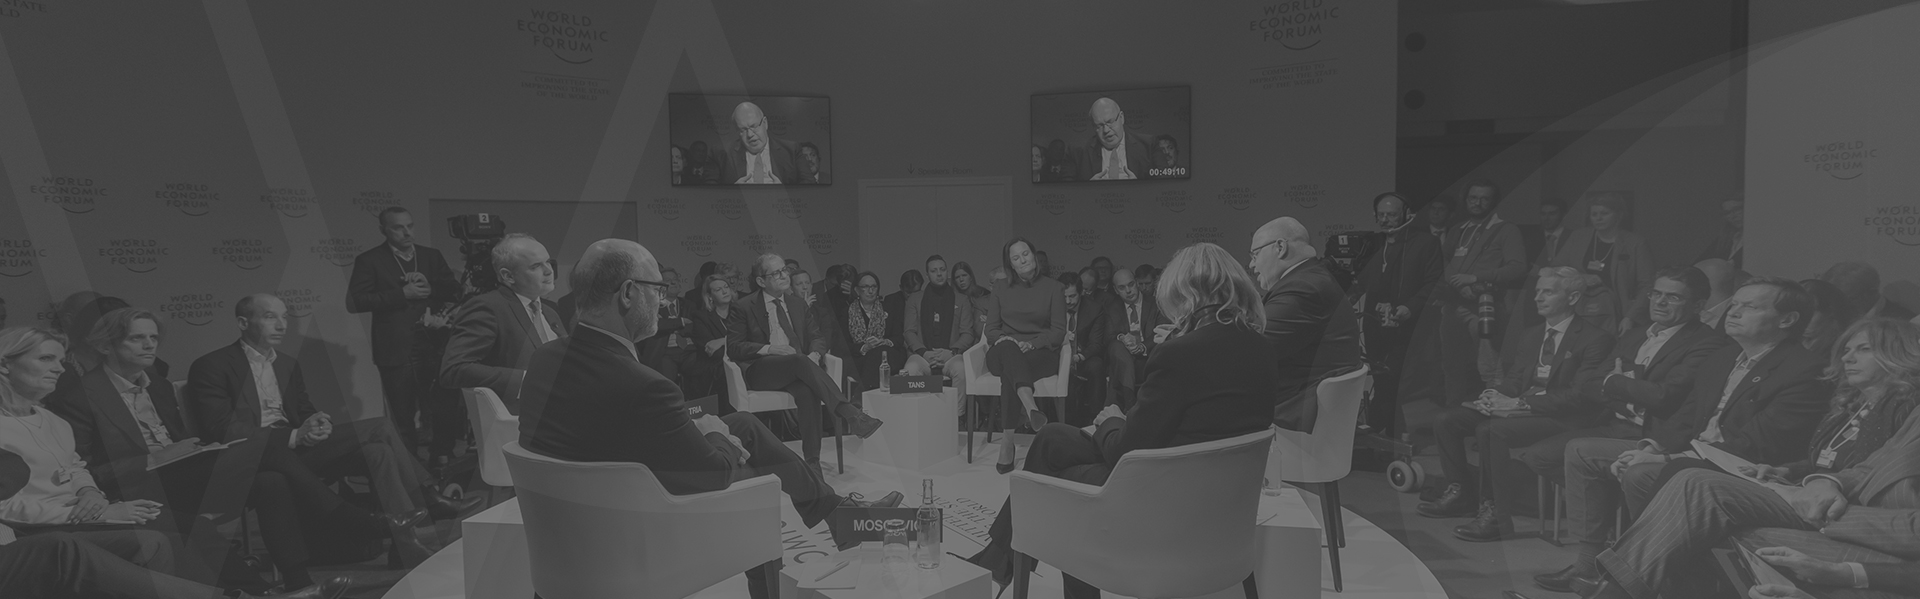
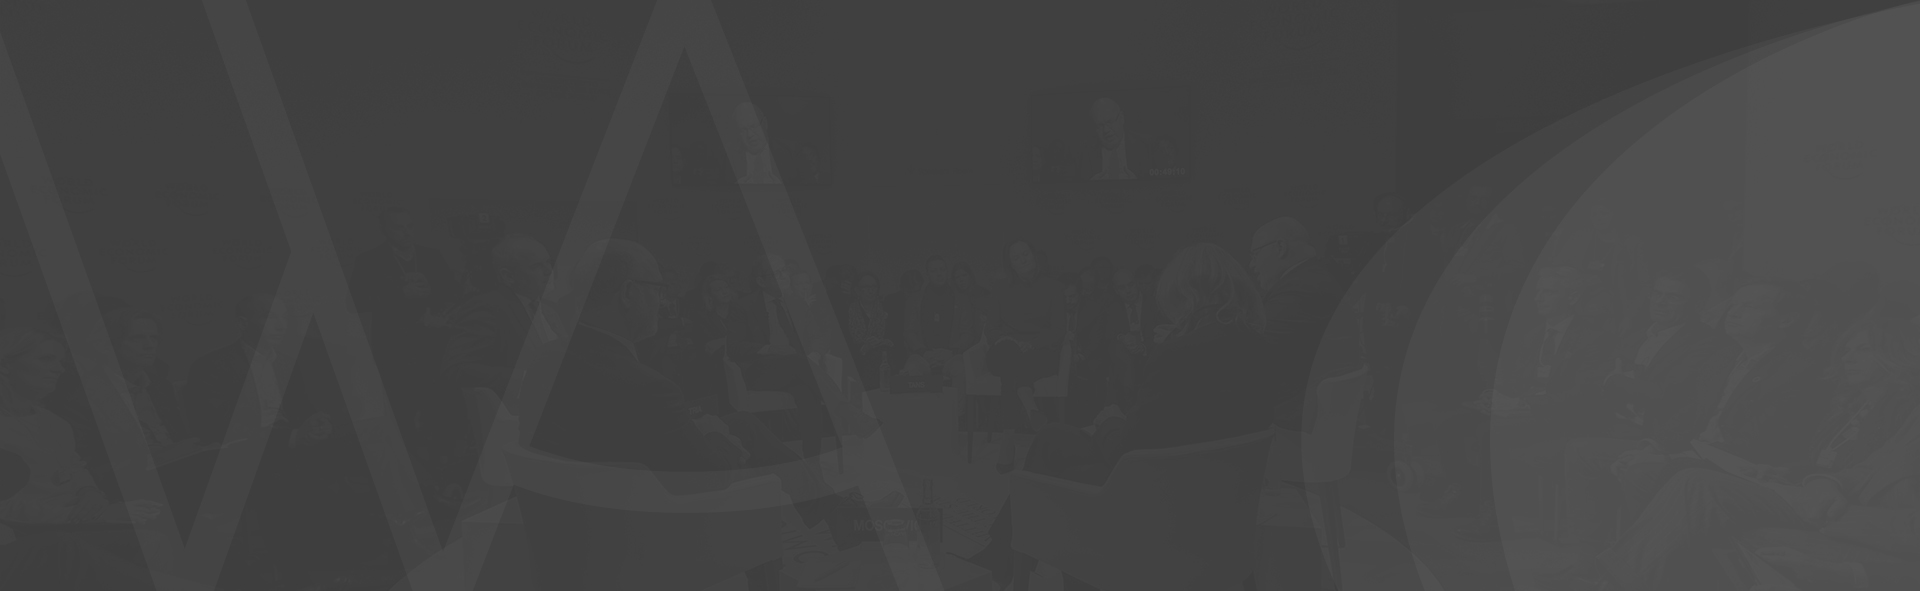
responsiveness design day one

diff --git a/src/components/coupons-and-deals/CouponsAndDeals.js b/src/components/coupons-and-deals/CouponsAndDeals.js
@@ -37,7 +37,7 @@ const CouponsAndDeals = ({ showDis, butonLabel = "true" }) => {
     return (
         <>
             <section>
-                <div className='wpa-wrapper-sides-spacing wpa-content-top-bottom-spacing-30'>
+                <div className='wpa-wrapper-sides-spacing wpa-content-top-bottom-spacing-30 wpa-margin-bottom-0'>
                     {showDis ? (
                         <div className='wpa-pro-services-content single-line-text-h2-line-height wpa-h2-font-size wpa-paragraph-text wpa-font-weight-600'>
                             <h2>WPArena Coupons and Deals</h2>

diff --git a/src/components/footer/Footer.css b/src/components/footer/Footer.css
@@ -4,14 +4,14 @@
     position: relative;
 }
 .wpa-footer-banner::before{
-    content: "";
+    /* content: "";
     position: absolute;
-    background-color: #000;
+    background-color: #454545;
     top: 0;
     left: 0;
     width: 100%;
     height: 100%;
-    opacity: 0.6;
+    opacity: .7; */
 
 }
 .wpa-footer-content{
@@ -70,4 +70,7 @@
     text-align: center;
     color: var(--color-white);
     padding-top: var(--wpa-content-top-bottom-spacing-30);
+}
+footer{
+    border-bottom: 3px solid #2982bd;
 }

diff --git a/src/components/coupons-and-deals/CouponsAndDeals.css b/src/components/coupons-and-deals/CouponsAndDeals.css
@@ -8,7 +8,6 @@
     box-shadow: 0px 0px 10px 0px rgba(0, 0, 0, 0.1);
     width: 400px;
     background-color: rgb(255, 255, 255);
-    flex: 1;
 }
 .wpa-coupons-and-deals-box-icon{
     width: 105px;
@@ -56,4 +55,11 @@ a.wpa-coupons-and-deals-box{
     height: 50px;
 
     
+}
+.wpa-content-top-bottom-spacing-30.wpa-margin-bottom-0{
+    padding-bottom: 0 !important;
+}
+.wpa-coupons-and-deals-box-titile.wpa-line-limit-2 h4{
+    height: 36px !important;
+    line-clamp: 1 !important;
 }
